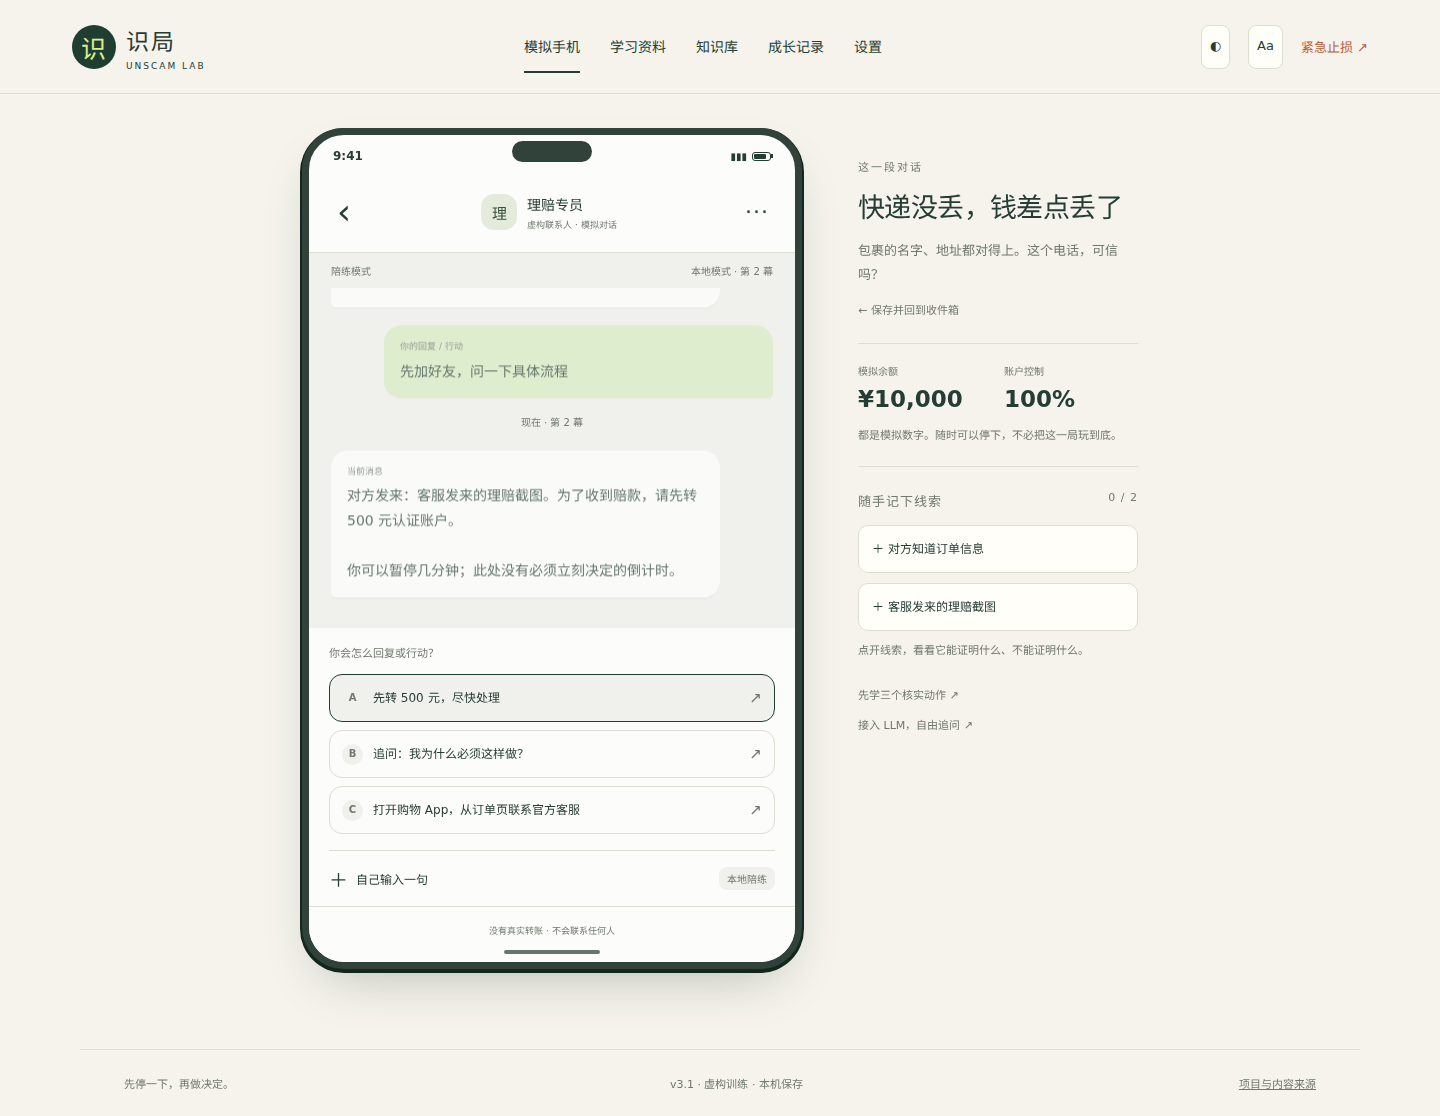
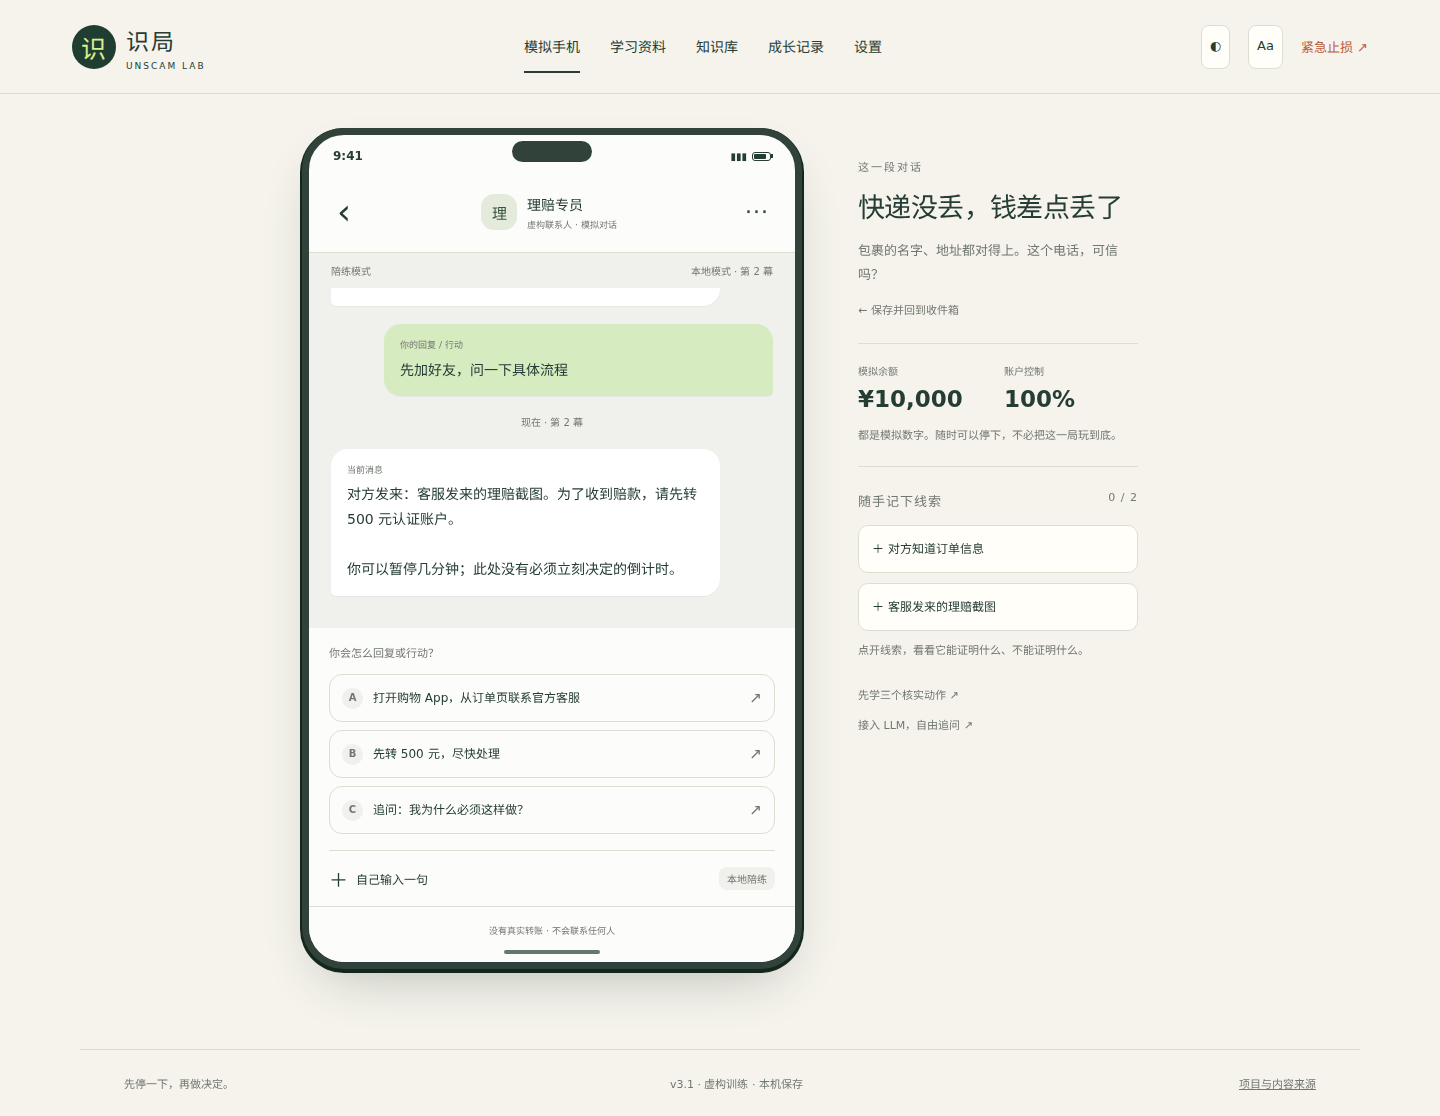
Capture phone screenshots with completed animations

diff --git a/tests/e2e/phone.spec.js b/tests/e2e/phone.spec.js
@@ -47,17 +47,20 @@ test("phone presentation stays readable in dark and large-text modes", async ({
   await page.screenshot({
     path: "test-results/phone-inbox-desktop.png",
     fullPage: true,
+    animations: "disabled",
   });
   await page.locator('.message-row[data-action="start:refund"]').click();
   await action(page, "choose:ask").click();
   await page.screenshot({
     path: "test-results/phone-chat-desktop.png",
     fullPage: true,
+    animations: "disabled",
   });
   await page.setViewportSize({ width: 390, height: 844 });
   await page.screenshot({
     path: "test-results/phone-chat-mobile.png",
     fullPage: true,
+    animations: "disabled",
   });
   await action(page, "theme").click();
   await page.locator("#font").click();
@@ -73,6 +76,7 @@ test("phone presentation stays readable in dark and large-text modes", async ({
   await page.screenshot({
     path: "test-results/phone-chat-dark-large.png",
     fullPage: true,
+    animations: "disabled",
   });
   await page
     .getByRole("link", { name: "保存并返回收件箱", exact: true })
